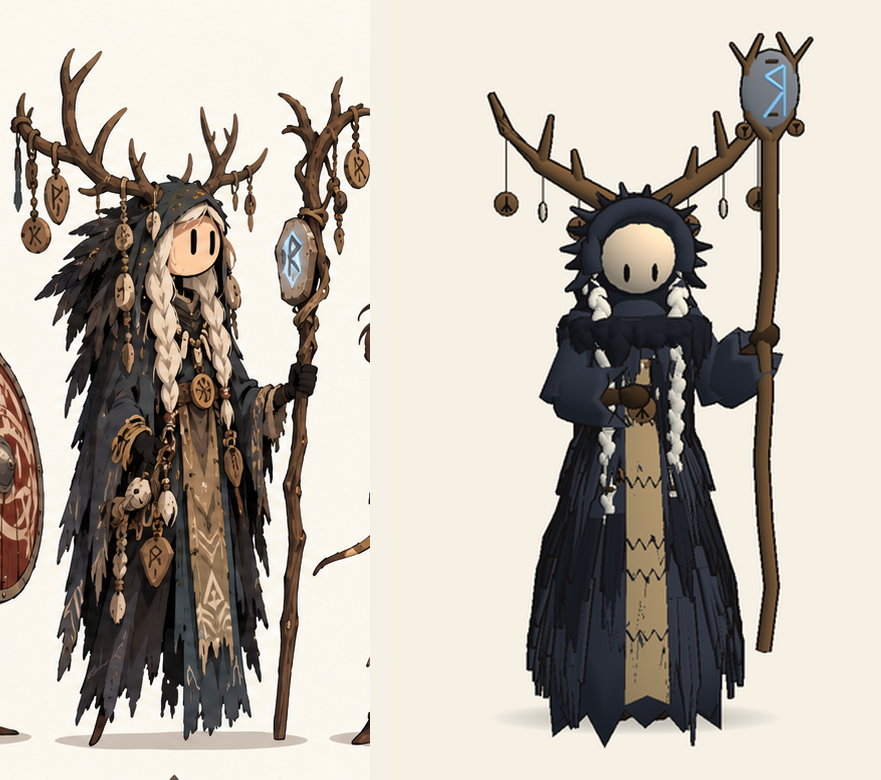
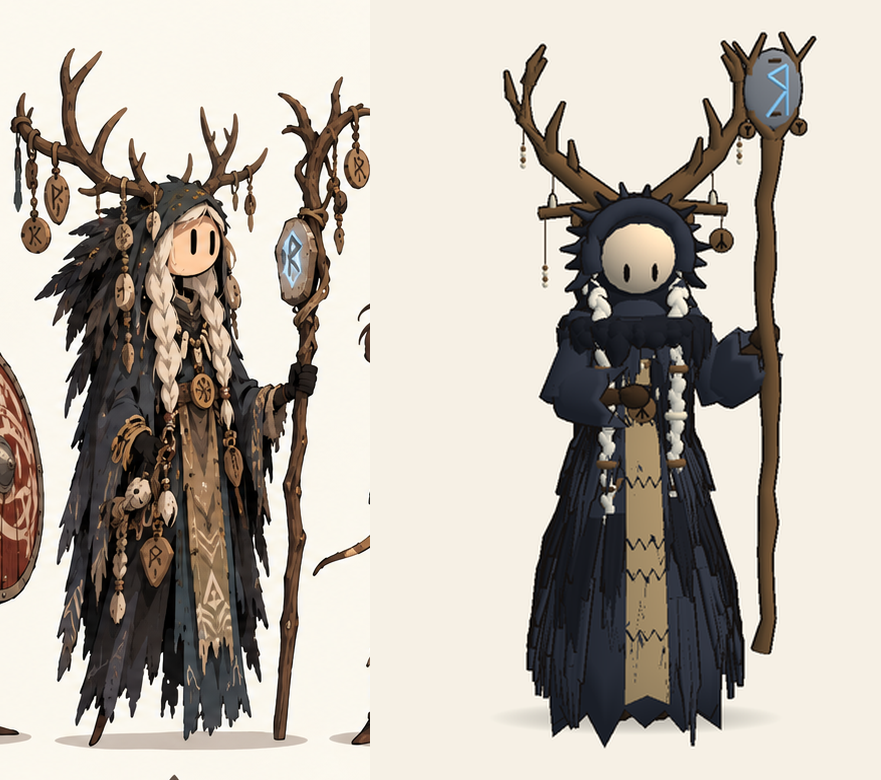
Odin's Coin characters: Old Seer polish pass 1
Thick branching antlers (a beam sweeping out and curving up, four tines
each) lashed to a wooden crossbar behind the head, with rune discs,
bones and bead strings hanging on cords along the bar and the beams;
wooden and bone beads in very long braids; more charms on longer cords
from the belt; a crooked, knotted staff.

Claude-Session: https://claude.ai/code/session_01SCdejJ1UF8RUxAkkFhZXGU

diff --git a/OdinsCoin/Assets/Scripts/Characters/Garments.cs b/OdinsCoin/Assets/Scripts/Characters/Garments.cs
@@ -830,10 +830,10 @@ namespace OdinsCoin
             d.Add(Joints.Body, d.pal.leather, CharacterKit.Band(f.waist, 0.03f * s, d.SkirtRadius(f.waist) * 1.06f, d.skirtDepth + 0.02f));
             RuneDisc(d, Joints.Body, new Vector3(0f, f.waist, d.SkirtRadius(f.waist) * (d.skirtDepth + 0.02f) + 0.06f * s), 0.045f * s, Quaternion.Euler(90f, 0f, 0f));
             // Charms hanging from the belt on cords.
-            foreach (float x in new[] { -0.09f, -0.05f, 0.07f })
+            foreach (float x in new[] { -0.11f, -0.07f, -0.035f, 0.06f, 0.1f })
             {
                 var top = new Vector3(x * s, f.waist - 0.02f * s, d.SkirtRadius(f.waist) * d.skirtDepth + 0.02f);
-                var end = top + new Vector3(0f, -0.2f * s, 0.02f * s);
+                var end = top + new Vector3(0f, -(0.16f + Mathf.Abs(x) * 1.2f) * s, 0.02f * s);
                 d.Add(Joints.Body, d.pal.leatherDark, MeshData.Tube(new[] { top, end }, new[] { 0.003f * s, 0.003f * s }, 4), false);
                 if (x > 0f) RuneDisc(d, Joints.Body, end, 0.028f * s, Quaternion.Euler(90f, 0f, 0f));
                 else d.Add(Joints.Body, d.pal.parchment, MeshData.Ellipsoid(end, new Vector3(0.018f, 0.028f, 0.016f) * s, 7, 5));
@@ -853,34 +853,65 @@ namespace OdinsCoin
                 d.Add(joint, d.pal.ink, MeshData.Tube(new[] { c + (a * seg[0] + b * seg[1]) * radius, c + (a * seg[2] + b * seg[3]) * radius }, new[] { 0.0035f * s, 0.0035f * s }, 4), false);
         }
 
-        /// <summary>Great antlers rising from the hood, hung with rune discs and bone charms on cords.</summary>
+        /// <summary>
+        /// Great branching antlers rising from the hood, lashed to a wooden crossbar behind the head; rune discs, bones
+        /// and bead strings hang on cords all along the bar and the antlers.
+        /// </summary>
         public static void Antlers(Dresser d)
         {
             var f = d.fit;
             float r = f.headR, cy = HeroModel.HeadCentre(f), s = d.S;
             var horn = d.pal.leather;
+            var rng = new System.Random(d.seed + 71);
+            // The crossbar, just above the hood behind the head.
+            float barY = cy + r * 1.05f, barZ = -r * 0.45f, half = 0.3f * s;
+            d.Add(Joints.Head, VikingModel.Shade(horn, 0.9f), MeshData.Tube(new[] { new Vector3(-half, barY - 0.02f * s, barZ), new Vector3(0f, barY + 0.01f * s, barZ), new Vector3(half, barY - 0.02f * s, barZ) }, new[] { 0.016f * s, 0.018f * s, 0.016f * s }, 7));
             foreach (float x in new[] { -1f, 1f })
             {
-                var root = new Vector3(x * r * 0.55f, cy + r * 1.1f, -r * 0.3f);
-                var beam = new[] { root, root + new Vector3(x * 0.1f, 0.06f, 0f) * s, root + new Vector3(x * 0.22f, 0.13f, -0.02f) * s, root + new Vector3(x * 0.33f, 0.24f, -0.03f) * s, root + new Vector3(x * 0.38f, 0.36f, -0.02f) * s };
-                d.Add(Joints.Head, horn, MeshData.Tube(beam, new[] { 0.034f * s, 0.03f * s, 0.025f * s, 0.018f * s, 0.008f * s }, 7));
-                // Tines branching upwards off the beam.
-                foreach (var t in new[] { new[] { 1f, 0.12f, 0.02f }, new[] { 2f, 0.16f, -0.03f }, new[] { 3f, 0.12f, 0.05f } })
+                var root = new Vector3(x * r * 0.5f, cy + r * 1.05f, -r * 0.35f);
+                // A thick beam sweeping out and then curving up and in.
+                var beam = new[] {
+                    root, root + new Vector3(x * 0.09f, 0.07f, -0.01f) * s, root + new Vector3(x * 0.2f, 0.16f, -0.02f) * s,
+                    root + new Vector3(x * 0.28f, 0.28f, -0.02f) * s, root + new Vector3(x * 0.27f, 0.4f, 0.0f) * s, root + new Vector3(x * 0.22f, 0.48f, 0.02f) * s };
+                d.Add(Joints.Head, horn, MeshData.Tube(beam, new[] { 0.04f * s, 0.036f * s, 0.03f * s, 0.024f * s, 0.016f * s, 0.006f * s }, 8));
+                // Four tines, the lower ones reaching forward-up, the upper ones straight up.
+                foreach (var t in new[] { new[] { 1f, 0.15f, 0.05f, 0.06f }, new[] { 2f, 0.18f, -0.04f, 0.04f }, new[] { 3f, 0.16f, 0.06f, 0.02f }, new[] { 4f, 0.12f, -0.05f, 0f } })
                 {
                     var at = beam[(int)t[0]];
-                    var tip = at + new Vector3(x * t[2], t[1], 0.02f) * s;
-                    d.Add(Joints.Head, horn, MeshData.Tube(new[] { at, (at + tip) * 0.5f + new Vector3(0f, 0f, 0.01f * s), tip }, new[] { 0.018f * s, 0.013f * s, 0.005f * s }, 6));
+                    var tip = at + new Vector3(x * t[2], t[1], t[3]) * s;
+                    var mid = Vector3.Lerp(at, tip, 0.5f) + new Vector3(x * 0.015f, 0f, 0.01f) * s;
+                    d.Add(Joints.Head, horn, MeshData.Tube(new[] { at, mid, tip }, new[] { 0.022f * s, 0.015f * s, 0.004f * s }, 6));
                 }
-                // Charms hanging from the beam.
+                // Charms on cords from the beam.
                 for (int k = 0; k < 3; k++)
                 {
                     var hang = Vector3.Lerp(beam[1], beam[3], k / 2f);
-                    float drop = (0.1f + 0.05f * k) * s;
-                    var end = hang + Vector3.down * drop;
-                    d.Add(Joints.Head, d.pal.leatherDark, MeshData.Tube(new[] { hang, end }, new[] { 0.0025f * s, 0.0025f * s }, 4), false);
-                    if (k == 1) d.Add(Joints.Head, d.pal.parchment, MeshData.Ellipsoid(end + Vector3.down * 0.02f * s, new Vector3(0.01f, 0.03f, 0.01f) * s, 6, 4));
-                    else RuneDisc(d, Joints.Head, end + Vector3.down * 0.035f * s, 0.036f * s, Quaternion.Euler(90f, 0f, 0f));
+                    Charm(d, hang, (0.08f + 0.06f * (k % 2)) * s, k, rng);
                 }
+            }
+            // Charms hanging along the crossbar.
+            for (int k = 0; k < 6; k++)
+            {
+                float x = Mathf.Lerp(-half * 0.95f, half * 0.95f, k / 5f);
+                if (Mathf.Abs(x) < r * 0.6f) continue; // not in front of the face
+                Charm(d, new Vector3(x, barY - 0.02f * s, barZ + 0.02f * s), (0.06f + 0.05f * (k % 3)) * s, k + 3, rng);
+            }
+        }
+
+        /// <summary>A cord with a rune disc, a bone or a string of beads at the end.</summary>
+        static void Charm(Dresser d, Vector3 from, float drop, int kind, System.Random rng)
+        {
+            float s = d.S;
+            var end = from + new Vector3(((float)rng.NextDouble() - 0.5f) * 0.01f * s, -drop, 0f);
+            d.Add(Joints.Head, d.pal.leatherDark, MeshData.Tube(new[] { from, end }, new[] { 0.0025f * s, 0.0025f * s }, 4), false);
+            switch (kind % 3)
+            {
+                case 0: RuneDisc(d, Joints.Head, end + Vector3.down * 0.035f * s, 0.036f * s, Quaternion.Euler(90f, 0f, 0f)); break;
+                case 1: d.Add(Joints.Head, d.pal.parchment, MeshData.Ellipsoid(end + Vector3.down * 0.025f * s, new Vector3(0.011f, 0.032f, 0.011f) * s, 6, 5)); break;
+                default:
+                    for (int i = 0; i < 4; i++)
+                        d.Add(Joints.Head, i % 2 == 0 ? d.pal.leather : d.pal.parchment, MeshData.Ellipsoid(end + Vector3.down * (0.012f + i * 0.018f) * s, Vector3.one * 0.01f * s, 6, 4), false);
+                    break;
             }
         }
 
@@ -1024,6 +1055,10 @@ namespace OdinsCoin
                     new Vector3(x * f.shoulderX * 0.75f, sy + 0.07f * s, r * 0.55f), new Vector3(x * f.shoulderX * 0.7f, sy - 0.06f * s, r * 0.95f),
                     new Vector3(x * f.shoulderX * 0.62f, sy - length * s, r * 0.95f) };
                 d.Add(Joints.Head, d.pal.hair, CharacterKit.Braid(path, 0.03f * s));
+                if (length > 0.55f)
+                    for (int k = 0; k < 3; k++)
+                        d.Add(Joints.Head, k == 1 ? d.pal.parchment : d.pal.leather, MeshData.Lathe(new[] { new Vector2(0.034f * s, -0.012f * s), new Vector2(0.038f * s, 0f), new Vector2(0.034f * s, 0.012f * s) }, 10)
+                            .Transformed(CharacterKit.Along(path, 0.45f + k * 0.17f), Quaternion.identity, Vector3.one), false);
                 if (wrapped)
                     for (int k = 0; k < 4; k++)
                         d.Add(Joints.Head, d.pal.fur, MeshData.Ellipsoid(CharacterKit.Along(path, 0.62f + k * 0.08f), new Vector3(0.034f, 0.024f, 0.034f) * s, 8, 5));

diff --git a/OdinsCoin/Assets/Scripts/Characters/HeroModel.cs b/OdinsCoin/Assets/Scripts/Characters/HeroModel.cs
@@ -184,13 +184,15 @@ namespace OdinsCoin
                     {
                         // A gnarled branch, forking at the top round a stone slab with a glowing rune, hung with charms.
                         var rng = new System.Random(7);
-                        var path = new Vector3[9];
-                        var radii = new float[9];
+                        var path = new Vector3[17];
+                        var radii = new float[17];
                         for (int i = 0; i < path.Length; i++)
                         {
                             float t = i / (float)(path.Length - 1);
-                            path[i] = new Vector3(((float)rng.NextDouble() - 0.5f) * 0.03f * s, ((float)rng.NextDouble() - 0.5f) * 0.03f * s, Mathf.Lerp(-1.02f, 0.62f, t) * s);
-                            radii[i] = Mathf.Lerp(0.02f, 0.024f, t) * s;
+                            // A crooked branch: wandering, with knots where it thickens.
+                            path[i] = new Vector3(Mathf.Sin(t * 13f) * 0.018f * s + ((float)rng.NextDouble() - 0.5f) * 0.02f * s,
+                                Mathf.Cos(t * 9f) * 0.014f * s + ((float)rng.NextDouble() - 0.5f) * 0.02f * s, Mathf.Lerp(-1.02f, 0.62f, t) * s);
+                            radii[i] = (Mathf.Lerp(0.02f, 0.025f, t) + (i % 4 == 0 ? 0.008f : 0f)) * s;
                         }
                         d.Add(Joints.Weapon, d.pal.leather, MeshData.Tube(path, radii, 7));
                         var fork = path[path.Length - 1];
